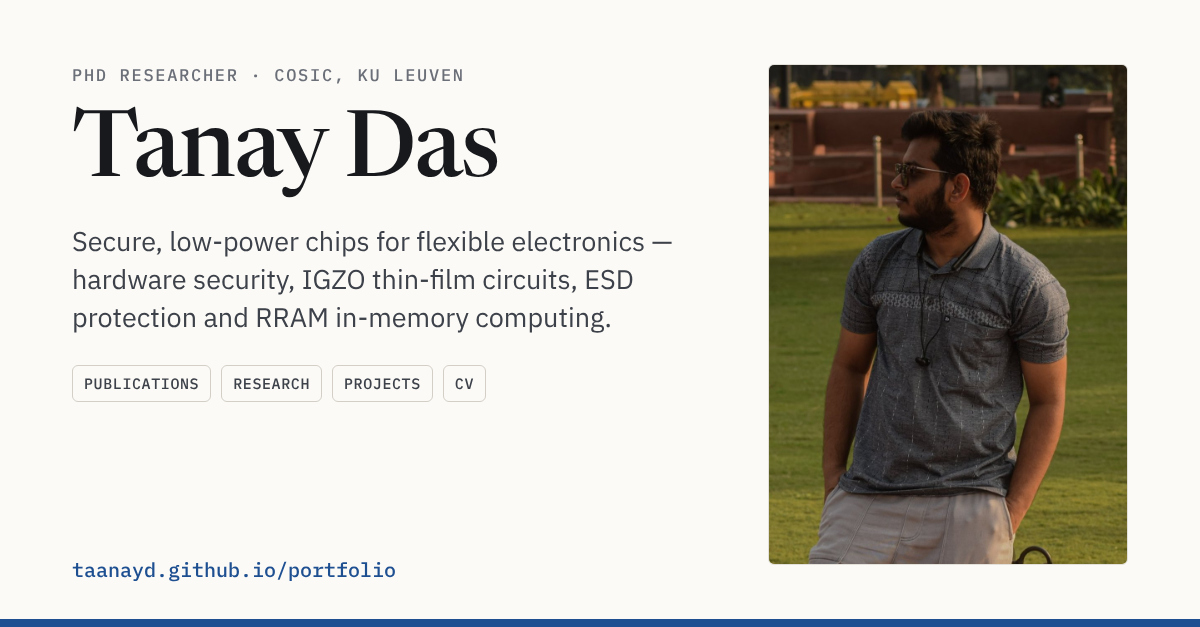
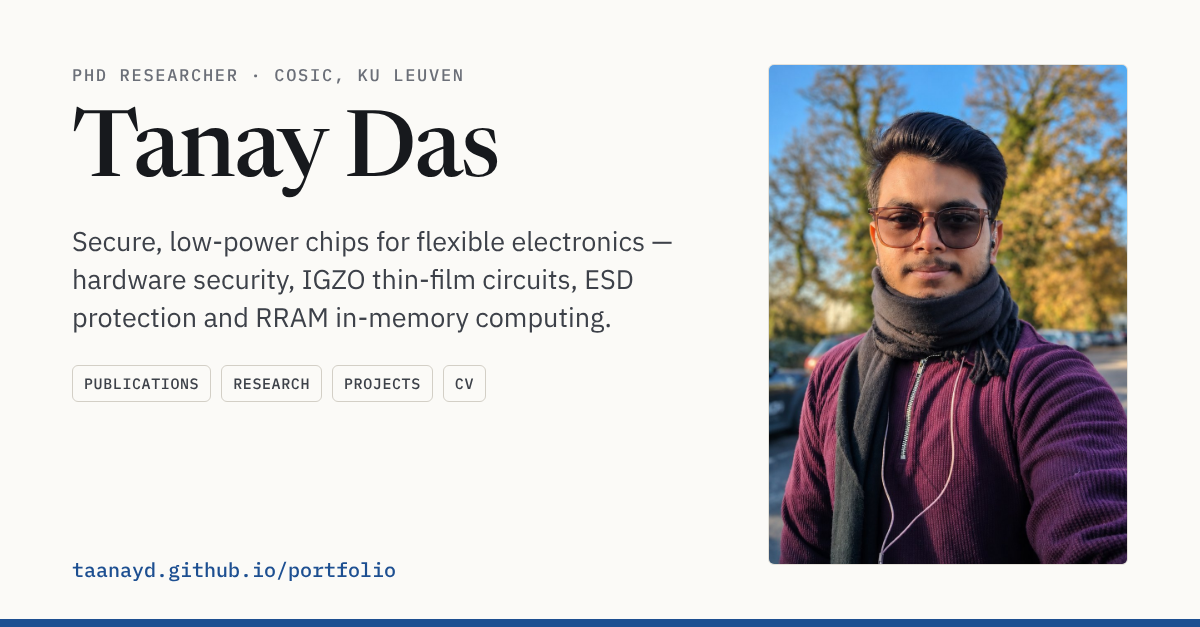
New home page portrait and matching preview card
Claude-Session: https://claude.ai/code/session_01UH5mYpbkPBSwGgQq5mct6q

Changed region(s): [[0.6167, 0.0909, 0.9558, 0.9091]]

diff --git a/index.html b/index.html
@@ -9,7 +9,7 @@
 <meta property="og:title" content="Tanay Das — PhD Researcher, KU Leuven (COSIC)">
 <meta property="og:description" content="Tanay Das — PhD researcher at KU Leuven (COSIC) working on hardware security, flexible IGZO electronics, ESD protection and RRAM in-memory computing.">
 <meta property="og:type" content="website">
-<meta property="og:image" content="https://taanayd.github.io/portfolio/assets/og-card.png">
+<meta property="og:image" content="https://taanayd.github.io/portfolio/assets/og-card.png?v=202611280029">
 <meta property="og:image:width" content="1200">
 <meta property="og:image:height" content="627">
 <meta property="og:image:alt" content="Tanay Das — PhD researcher, COSIC, KU Leuven">
@@ -21,9 +21,9 @@
 <meta name="theme-color" content="#111214" media="(prefers-color-scheme: dark)">
 <script>(function(){var t;try{t=localStorage.getItem('theme')}catch(e){}if(!t)t=matchMedia('(prefers-color-scheme: dark)').matches?'dark':'light';document.documentElement.setAttribute('data-theme',t);document.documentElement.classList.add('js')})();</script>
 <link rel="preload" href="assets/fonts/ibm-plex-sans-latin-400-normal.woff2" as="font" type="font/woff2" crossorigin>
-<link rel="stylesheet" href="assets/css/fonts.css?v=202611270220">
-<link rel="stylesheet" href="assets/css/site.css?v=202611270220">
-<script src="assets/js/site.js?v=202611270220" defer></script>
+<link rel="stylesheet" href="assets/css/fonts.css?v=202611280029">
+<link rel="stylesheet" href="assets/css/site.css?v=202611280029">
+<script src="assets/js/site.js?v=202611280029" defer></script>
 </head>
 <body>
 <a class="skip" href="#main">Skip to content</a>
@@ -55,11 +55,11 @@
       <a class="btn primary" href="mailto:taanayd@gmail.com"><svg viewBox="0 0 24 24" fill="none" stroke="currentColor" stroke-width="1.8" stroke-linecap="round" stroke-linejoin="round" aria-hidden="true"><rect x="3" y="5" width="18" height="14" rx="2"/><path d="m3 7 9 6 9-6"/></svg>Email</a>
       <a class="btn" href="https://scholar.google.com/citations?user=6aBaFCcAAAAJ" rel="noopener"><svg viewBox="0 0 24 24" fill="none" stroke="currentColor" stroke-width="1.8" stroke-linecap="round" stroke-linejoin="round" aria-hidden="true"><path d="M22 9 12 4 2 9l10 5 10-5z"/><path d="M6 11v5c3 2 9 2 12 0v-5"/></svg>Google Scholar</a>
       <a class="btn" href="https://www.linkedin.com/in/dastanay/" rel="noopener"><svg viewBox="0 0 24 24" fill="currentColor" aria-hidden="true"><path d="M4.98 3.5a2.5 2.5 0 1 1 0 5 2.5 2.5 0 0 1 0-5zM3 9.5h4V21H3zM9.5 9.5h3.8v1.6h.1c.5-1 1.8-2 3.8-2 4 0 4.8 2.6 4.8 6V21h-4v-5.2c0-1.2 0-2.9-1.8-2.9s-2 1.4-2 2.8V21h-4z"/></svg>LinkedIn</a>
-      <a class="btn" href="Tanay_CV_PhD.pdf?v=202611270220"><svg viewBox="0 0 24 24" fill="none" stroke="currentColor" stroke-width="1.8" stroke-linecap="round" stroke-linejoin="round" aria-hidden="true"><path d="M14 3H7a2 2 0 0 0-2 2v14a2 2 0 0 0 2 2h10a2 2 0 0 0 2-2V8z"/><path d="M14 3v5h5M9 13h6M9 17h6"/></svg>CV</a>
+      <a class="btn" href="Tanay_CV_PhD.pdf?v=202611280029"><svg viewBox="0 0 24 24" fill="none" stroke="currentColor" stroke-width="1.8" stroke-linecap="round" stroke-linejoin="round" aria-hidden="true"><path d="M14 3H7a2 2 0 0 0-2 2v14a2 2 0 0 0 2 2h10a2 2 0 0 0 2-2V8z"/><path d="M14 3v5h5M9 13h6M9 17h6"/></svg>CV</a>
     </div>
   </div>
   <aside>
-    <div class="portrait"><img src="assets/portrait.jpg?v=202611270220" alt="Portrait of Tanay Das" width="960" height="1200"></div>
+    <div class="portrait"><img src="assets/portrait.jpg?v=202611280029" alt="Portrait of Tanay Das" width="960" height="1200"></div>
     <p class="portrait-cap">KU Leuven, Campus Diepenbeek<br>Belgium</p>
   </aside>
 </section>
@@ -138,7 +138,7 @@
       <a href="https://scholar.google.com/citations?user=6aBaFCcAAAAJ" rel="noopener">Google Scholar</a>
       <a href="https://www.linkedin.com/in/dastanay/" rel="noopener">LinkedIn</a>
       <a href="https://github.com/taanayd" rel="noopener">GitHub</a>
-      <a href="Tanay_CV_PhD.pdf?v=202611270220">CV (PDF)</a>
+      <a href="Tanay_CV_PhD.pdf?v=202611280029">CV (PDF)</a>
     </nav>
   </div>
 </footer>

diff --git a/experience.html b/experience.html
@@ -9,7 +9,7 @@
 <meta property="og:title" content="Experience — Tanay Das">
 <meta property="og:description" content="Experience, education, awards and teaching of Tanay Das.">
 <meta property="og:type" content="website">
-<meta property="og:image" content="https://taanayd.github.io/portfolio/assets/og-card.png">
+<meta property="og:image" content="https://taanayd.github.io/portfolio/assets/og-card.png?v=202611280029">
 <meta property="og:image:width" content="1200">
 <meta property="og:image:height" content="627">
 <meta property="og:image:alt" content="Tanay Das — PhD researcher, COSIC, KU Leuven">
@@ -21,9 +21,9 @@
 <meta name="theme-color" content="#111214" media="(prefers-color-scheme: dark)">
 <script>(function(){var t;try{t=localStorage.getItem('theme')}catch(e){}if(!t)t=matchMedia('(prefers-color-scheme: dark)').matches?'dark':'light';document.documentElement.setAttribute('data-theme',t);document.documentElement.classList.add('js')})();</script>
 <link rel="preload" href="assets/fonts/ibm-plex-sans-latin-400-normal.woff2" as="font" type="font/woff2" crossorigin>
-<link rel="stylesheet" href="assets/css/fonts.css?v=202611270220">
-<link rel="stylesheet" href="assets/css/site.css?v=202611270220">
-<script src="assets/js/site.js?v=202611270220" defer></script>
+<link rel="stylesheet" href="assets/css/fonts.css?v=202611280029">
+<link rel="stylesheet" href="assets/css/site.css?v=202611280029">
+<script src="assets/js/site.js?v=202611280029" defer></script>
 </head>
 <body>
 <a class="skip" href="#main">Skip to content</a>
@@ -48,7 +48,7 @@
 <header class="page-head">
   <div class="eyebrow">Experience</div>
   <h1>Experience &amp; education</h1>
-  <p class="lede">Research and industry positions, education, honours, teaching and service. Download the <a href="Tanay_CV_PhD.pdf?v=202611270220">full CV</a> (2 pages) or the <a href="resume.pdf?v=202611270220">one-page résumé</a>.</p>
+  <p class="lede">Research and industry positions, education, honours, teaching and service. Download the <a href="Tanay_CV_PhD.pdf?v=202611280029">full CV</a> (2 pages) or the <a href="resume.pdf?v=202611280029">one-page résumé</a>.</p>
 </header>
 <section class="section" style="padding-top:0"><div class="section-head"><h2>Positions</h2></div>
 <ol class="timeline">
@@ -123,7 +123,7 @@
       <a href="https://scholar.google.com/citations?user=6aBaFCcAAAAJ" rel="noopener">Google Scholar</a>
       <a href="https://www.linkedin.com/in/dastanay/" rel="noopener">LinkedIn</a>
       <a href="https://github.com/taanayd" rel="noopener">GitHub</a>
-      <a href="Tanay_CV_PhD.pdf?v=202611270220">CV (PDF)</a>
+      <a href="Tanay_CV_PhD.pdf?v=202611280029">CV (PDF)</a>
     </nav>
   </div>
 </footer>

diff --git a/gallery.html b/gallery.html
@@ -9,7 +9,7 @@
 <meta property="og:title" content="Lab gallery — Tanay Das">
 <meta property="og:description" content="Photographs from the research labs and teams Tanay Das has worked in.">
 <meta property="og:type" content="website">
-<meta property="og:image" content="https://taanayd.github.io/portfolio/assets/og-card.png">
+<meta property="og:image" content="https://taanayd.github.io/portfolio/assets/og-card.png?v=202611280029">
 <meta property="og:image:width" content="1200">
 <meta property="og:image:height" content="627">
 <meta property="og:image:alt" content="Tanay Das — PhD researcher, COSIC, KU Leuven">
@@ -21,9 +21,9 @@
 <meta name="theme-color" content="#111214" media="(prefers-color-scheme: dark)">
 <script>(function(){var t;try{t=localStorage.getItem('theme')}catch(e){}if(!t)t=matchMedia('(prefers-color-scheme: dark)').matches?'dark':'light';document.documentElement.setAttribute('data-theme',t);document.documentElement.classList.add('js')})();</script>
 <link rel="preload" href="assets/fonts/ibm-plex-sans-latin-400-normal.woff2" as="font" type="font/woff2" crossorigin>
-<link rel="stylesheet" href="assets/css/fonts.css?v=202611270220">
-<link rel="stylesheet" href="assets/css/site.css?v=202611270220">
-<script src="assets/js/site.js?v=202611270220" defer></script>
+<link rel="stylesheet" href="assets/css/fonts.css?v=202611280029">
+<link rel="stylesheet" href="assets/css/site.css?v=202611280029">
+<script src="assets/js/site.js?v=202611280029" defer></script>
 </head>
 <body>
 <a class="skip" href="#main">Skip to content</a>
@@ -63,12 +63,12 @@
       <a href="https://scholar.google.com/citations?user=6aBaFCcAAAAJ" rel="noopener">Google Scholar</a>
       <a href="https://www.linkedin.com/in/dastanay/" rel="noopener">LinkedIn</a>
       <a href="https://github.com/taanayd" rel="noopener">GitHub</a>
-      <a href="Tanay_CV_PhD.pdf?v=202611270220">CV (PDF)</a>
+      <a href="Tanay_CV_PhD.pdf?v=202611280029">CV (PDF)</a>
     </nav>
   </div>
 </footer>
 <link rel="stylesheet" href="assets/vendor/photoswipe/photoswipe.css">
-<script src="assets/js/lab-gallery.js?v=202611270220"></script>
-<script type="module" src="assets/js/lightbox.js?v=202611270220"></script>
+<script src="assets/js/lab-gallery.js?v=202611280029"></script>
+<script type="module" src="assets/js/lightbox.js?v=202611280029"></script>
 </body>
 </html>

diff --git a/photography.html b/photography.html
@@ -9,7 +9,7 @@
 <meta property="og:title" content="Photography — Tanay Das">
 <meta property="og:description" content="Personal photography by Tanay Das.">
 <meta property="og:type" content="website">
-<meta property="og:image" content="https://taanayd.github.io/portfolio/assets/og-card.png">
+<meta property="og:image" content="https://taanayd.github.io/portfolio/assets/og-card.png?v=202611280029">
 <meta property="og:image:width" content="1200">
 <meta property="og:image:height" content="627">
 <meta property="og:image:alt" content="Tanay Das — PhD researcher, COSIC, KU Leuven">
@@ -21,9 +21,9 @@
 <meta name="theme-color" content="#111214" media="(prefers-color-scheme: dark)">
 <script>(function(){var t;try{t=localStorage.getItem('theme')}catch(e){}if(!t)t=matchMedia('(prefers-color-scheme: dark)').matches?'dark':'light';document.documentElement.setAttribute('data-theme',t);document.documentElement.classList.add('js')})();</script>
 <link rel="preload" href="assets/fonts/ibm-plex-sans-latin-400-normal.woff2" as="font" type="font/woff2" crossorigin>
-<link rel="stylesheet" href="assets/css/fonts.css?v=202611270220">
-<link rel="stylesheet" href="assets/css/site.css?v=202611270220">
-<script src="assets/js/site.js?v=202611270220" defer></script>
+<link rel="stylesheet" href="assets/css/fonts.css?v=202611280029">
+<link rel="stylesheet" href="assets/css/site.css?v=202611280029">
+<script src="assets/js/site.js?v=202611280029" defer></script>
 </head>
 <body>
 <a class="skip" href="#main">Skip to content</a>
@@ -118,11 +118,11 @@
       <a href="https://scholar.google.com/citations?user=6aBaFCcAAAAJ" rel="noopener">Google Scholar</a>
       <a href="https://www.linkedin.com/in/dastanay/" rel="noopener">LinkedIn</a>
       <a href="https://github.com/taanayd" rel="noopener">GitHub</a>
-      <a href="Tanay_CV_PhD.pdf?v=202611270220">CV (PDF)</a>
+      <a href="Tanay_CV_PhD.pdf?v=202611280029">CV (PDF)</a>
     </nav>
   </div>
 </footer>
 <link rel="stylesheet" href="assets/vendor/photoswipe/photoswipe.css">
-<script type="module" src="assets/js/lightbox.js?v=202611270220"></script>
+<script type="module" src="assets/js/lightbox.js?v=202611280029"></script>
 </body>
 </html>

diff --git a/projects.html b/projects.html
@@ -9,7 +9,7 @@
 <meta property="og:title" content="Projects — Tanay Das">
 <meta property="og:description" content="Projects by Tanay Das: RRAM crossbar hardware, non-volatile memory cells and AI-assisted verification tools.">
 <meta property="og:type" content="website">
-<meta property="og:image" content="https://taanayd.github.io/portfolio/assets/og-card.png">
+<meta property="og:image" content="https://taanayd.github.io/portfolio/assets/og-card.png?v=202611280029">
 <meta property="og:image:width" content="1200">
 <meta property="og:image:height" content="627">
 <meta property="og:image:alt" content="Tanay Das — PhD researcher, COSIC, KU Leuven">
@@ -21,9 +21,9 @@
 <meta name="theme-color" content="#111214" media="(prefers-color-scheme: dark)">
 <script>(function(){var t;try{t=localStorage.getItem('theme')}catch(e){}if(!t)t=matchMedia('(prefers-color-scheme: dark)').matches?'dark':'light';document.documentElement.setAttribute('data-theme',t);document.documentElement.classList.add('js')})();</script>
 <link rel="preload" href="assets/fonts/ibm-plex-sans-latin-400-normal.woff2" as="font" type="font/woff2" crossorigin>
-<link rel="stylesheet" href="assets/css/fonts.css?v=202611270220">
-<link rel="stylesheet" href="assets/css/site.css?v=202611270220">
-<script src="assets/js/site.js?v=202611270220" defer></script>
+<link rel="stylesheet" href="assets/css/fonts.css?v=202611280029">
+<link rel="stylesheet" href="assets/css/site.css?v=202611280029">
+<script src="assets/js/site.js?v=202611280029" defer></script>
 </head>
 <body>
 <a class="skip" href="#main">Skip to content</a>
@@ -114,10 +114,10 @@
       <a href="https://scholar.google.com/citations?user=6aBaFCcAAAAJ" rel="noopener">Google Scholar</a>
       <a href="https://www.linkedin.com/in/dastanay/" rel="noopener">LinkedIn</a>
       <a href="https://github.com/taanayd" rel="noopener">GitHub</a>
-      <a href="Tanay_CV_PhD.pdf?v=202611270220">CV (PDF)</a>
+      <a href="Tanay_CV_PhD.pdf?v=202611280029">CV (PDF)</a>
     </nav>
   </div>
 </footer>
-<script type="module" src="assets/js/lightbox.js?v=202611270220"></script>
+<script type="module" src="assets/js/lightbox.js?v=202611280029"></script>
 </body>
 </html>

diff --git a/research.html b/research.html
@@ -9,7 +9,7 @@
 <meta property="og:title" content="Research — Tanay Das">
 <meta property="og:description" content="Research by Tanay Das: hardware security of in-memory computing, ESD protection for neurostimulators, RRAM crossbars, and flexible IGZO electronics.">
 <meta property="og:type" content="website">
-<meta property="og:image" content="https://taanayd.github.io/portfolio/assets/og-card.png">
+<meta property="og:image" content="https://taanayd.github.io/portfolio/assets/og-card.png?v=202611280029">
 <meta property="og:image:width" content="1200">
 <meta property="og:image:height" content="627">
 <meta property="og:image:alt" content="Tanay Das — PhD researcher, COSIC, KU Leuven">
@@ -21,9 +21,9 @@
 <meta name="theme-color" content="#111214" media="(prefers-color-scheme: dark)">
 <script>(function(){var t;try{t=localStorage.getItem('theme')}catch(e){}if(!t)t=matchMedia('(prefers-color-scheme: dark)').matches?'dark':'light';document.documentElement.setAttribute('data-theme',t);document.documentElement.classList.add('js')})();</script>
 <link rel="preload" href="assets/fonts/ibm-plex-sans-latin-400-normal.woff2" as="font" type="font/woff2" crossorigin>
-<link rel="stylesheet" href="assets/css/fonts.css?v=202611270220">
-<link rel="stylesheet" href="assets/css/site.css?v=202611270220">
-<script src="assets/js/site.js?v=202611270220" defer></script>
+<link rel="stylesheet" href="assets/css/fonts.css?v=202611280029">
+<link rel="stylesheet" href="assets/css/site.css?v=202611280029">
+<script src="assets/js/site.js?v=202611280029" defer></script>
 </head>
 <body>
 <a class="skip" href="#main">Skip to content</a>
@@ -117,7 +117,7 @@
       <a href="https://scholar.google.com/citations?user=6aBaFCcAAAAJ" rel="noopener">Google Scholar</a>
       <a href="https://www.linkedin.com/in/dastanay/" rel="noopener">LinkedIn</a>
       <a href="https://github.com/taanayd" rel="noopener">GitHub</a>
-      <a href="Tanay_CV_PhD.pdf?v=202611270220">CV (PDF)</a>
+      <a href="Tanay_CV_PhD.pdf?v=202611280029">CV (PDF)</a>
     </nav>
   </div>
 </footer>

diff --git a/publications.html b/publications.html
@@ -9,7 +9,7 @@
 <meta property="og:title" content="Publications — Tanay Das">
 <meta property="og:description" content="Publications by Tanay Das on ESD protection, RRAM in-memory computing and hardware security.">
 <meta property="og:type" content="website">
-<meta property="og:image" content="https://taanayd.github.io/portfolio/assets/og-card.png">
+<meta property="og:image" content="https://taanayd.github.io/portfolio/assets/og-card.png?v=202611280029">
 <meta property="og:image:width" content="1200">
 <meta property="og:image:height" content="627">
 <meta property="og:image:alt" content="Tanay Das — PhD researcher, COSIC, KU Leuven">
@@ -21,9 +21,9 @@
 <meta name="theme-color" content="#111214" media="(prefers-color-scheme: dark)">
 <script>(function(){var t;try{t=localStorage.getItem('theme')}catch(e){}if(!t)t=matchMedia('(prefers-color-scheme: dark)').matches?'dark':'light';document.documentElement.setAttribute('data-theme',t);document.documentElement.classList.add('js')})();</script>
 <link rel="preload" href="assets/fonts/ibm-plex-sans-latin-400-normal.woff2" as="font" type="font/woff2" crossorigin>
-<link rel="stylesheet" href="assets/css/fonts.css?v=202611270220">
-<link rel="stylesheet" href="assets/css/site.css?v=202611270220">
-<script src="assets/js/site.js?v=202611270220" defer></script>
+<link rel="stylesheet" href="assets/css/fonts.css?v=202611280029">
+<link rel="stylesheet" href="assets/css/site.css?v=202611280029">
+<script src="assets/js/site.js?v=202611280029" defer></script>
 </head>
 <body>
 <a class="skip" href="#main">Skip to content</a>
@@ -192,7 +192,7 @@
       <a href="https://scholar.google.com/citations?user=6aBaFCcAAAAJ" rel="noopener">Google Scholar</a>
       <a href="https://www.linkedin.com/in/dastanay/" rel="noopener">LinkedIn</a>
       <a href="https://github.com/taanayd" rel="noopener">GitHub</a>
-      <a href="Tanay_CV_PhD.pdf?v=202611270220">CV (PDF)</a>
+      <a href="Tanay_CV_PhD.pdf?v=202611280029">CV (PDF)</a>
     </nav>
   </div>
 </footer>
